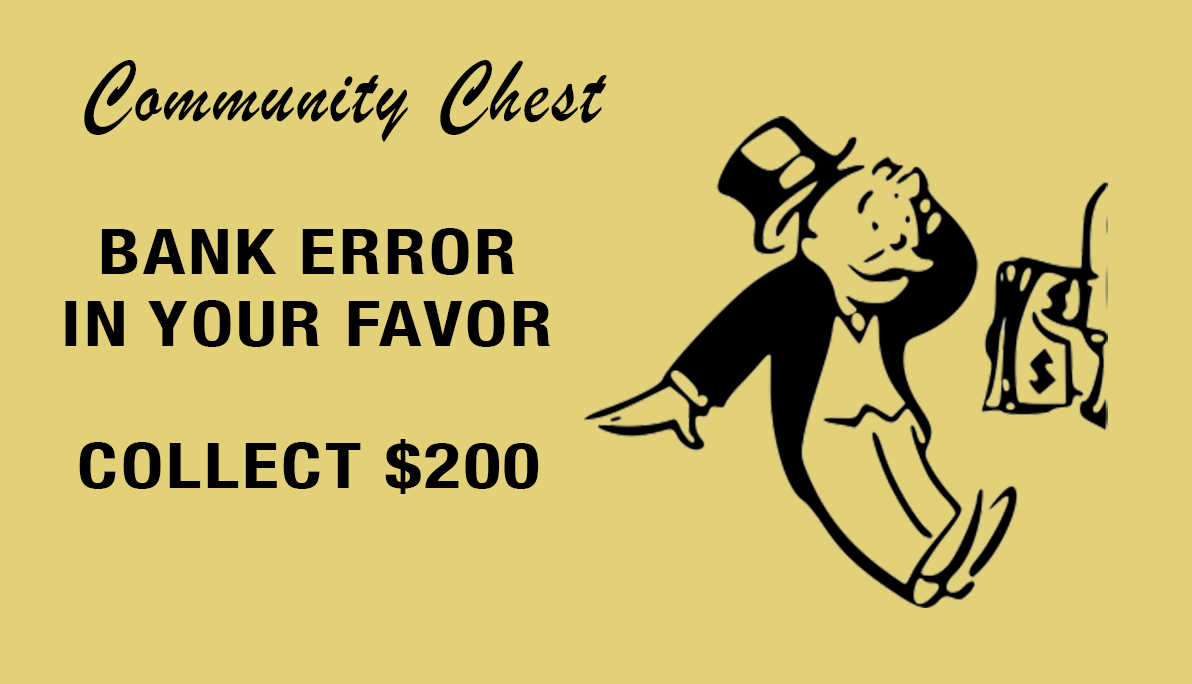
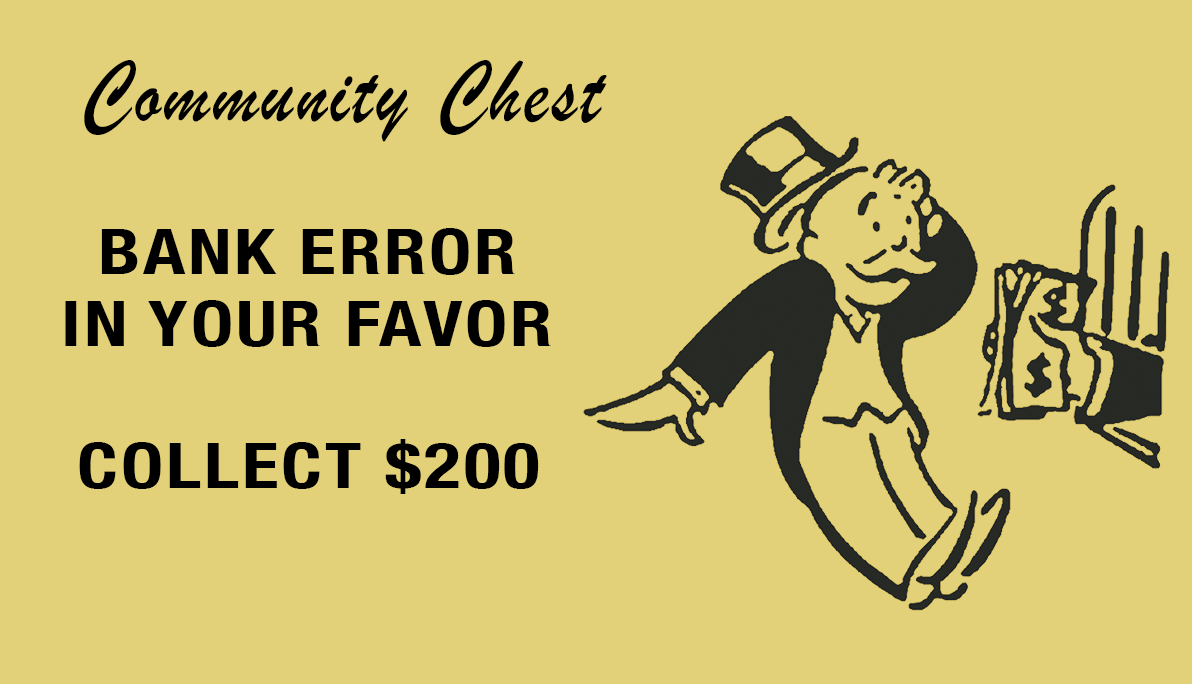
Add All Default Chance Cards
Improve quality of some existing card and tile images

Changed region(s): [[0.4656, 0.1535, 0.9933, 0.8904]]

diff --git a/lib/monopoly/game.rb b/lib/monopoly/game.rb
@@ -2885,38 +2885,96 @@ module Monopoly
             amount: -50,
             every_other_player: true,
             game: self,
-            image: Image.new('media/images/cards/chairman_of_the_board.jpg'),
+            image: Image.new('media/images/cards/chairman_of_the_board.png'),
             type: :chance
           ),
-          MoveCard.new(
+          MoneyCard.new(
+            amount: 150,
             game: self,
-            image: Image.new('media/images/cards/go_back_3_spaces.jpg'),
-            move_value: -3,
+            image: Image.new('media/images/cards/building_and_loan.png'),
             type: :chance
           ),
-          MoveCard.new(
+          GetOutOfJailFreeCard.new(
             game: self,
-            image: Image.new('media/images/cards/nearest_utility.jpg'),
-            move_value: UtilityTile,
-            rent_multiplier: 10,
+            image: Image.new('media/images/cards/get_out_of_jail_free_chance.png'),
+            type: :chance
+          ),
+          MoneyCard.new(
+            amount: 50,
+            game: self,
+            image: Image.new('media/images/cards/dividend.png'),
             type: :chance
           ),
           MoneyCard.new(
             amount: -15,
             game: self,
-            image: Image.new('media/images/cards/poor_tax.jpg'),
-            type: :chance
-          ),
-          GetOutOfJailFreeCard.new(
-            game: self,
-            image: Image.new('media/images/cards/get_out_of_jail_free.jpg'),
+            image: Image.new('media/images/cards/poor_tax.png'),
             type: :chance
           ),
           MoveCard.new(
             game: self,
             go_money: true,
-            image: Image.new('media/images/cards/advance_to_boardwalk.jpg'),
+            image: Image.new('media/images/cards/take_a_ride.png'),
+            move_value: tiles[:reading_railroad],
+            type: :chance
+          ),
+          MoveCard.new(
+            game: self,
+            go_money: true,
+            image: Image.new('media/images/cards/advance_to_go_chance.png'),
+            move_value: tiles[:go],
+            type: :chance
+          ),
+          MoveCard.new(
+            game: self,
+            image: Image.new('media/images/cards/go_back_3_spaces.png'),
+            move_value: -3,
+            type: :chance
+          ),
+          MoveCard.new(
+            game: self,
+            go_money: true,
+            image: Image.new('media/images/cards/advance_to_boardwalk.png'),
             move_value: tiles[:boardwalk],
+            type: :chance
+          ),
+          MoveCard.new(
+            game: self,
+            image: Image.new('media/images/cards/nearest_railroad.png'),
+            move_value: RailroadTile,
+            rent_multiplier: 2,
+            type: :chance
+          ),
+          MoveCard.new(
+            game: self,
+            image: Image.new('media/images/cards/nearest_utility.png'),
+            move_value: UtilityTile,
+            rent_multiplier: 10,
+            type: :chance
+          ),
+          MoveCard.new(
+            game: self,
+            image: Image.new('media/images/cards/nearest_railroad.png'),
+            move_value: RailroadTile,
+            rent_multiplier: 2,
+            type: :chance
+          ),
+          MoveCard.new(
+            game: self,
+            go_money: true,
+            image: Image.new('media/images/cards/advance_to_illinois_ave.png'),
+            move_value: tiles[:illinois_avenue],
+            type: :chance
+          ),
+          GoToJailCard.new(
+            game: self,
+            image: Image.new('media/images/cards/go_to_jail_chance.png'),
+            type: :chance
+          ),
+          PropertyRepairCard.new(
+            cost_per_house: 25,
+            game: self,
+            image: Image.new('media/images/cards/general_repairs.png'),
             type: :chance
           )
         ],
@@ -2924,7 +2982,7 @@ module Monopoly
           MoveCard.new(
             game: self,
             go_money: true,
-            image: Image.new('media/images/cards/advance_to_go.png'),
+            image: Image.new('media/images/cards/advance_to_go_community_chest.png'),
             move_value: tiles[:go],
             type: :community_chest
           ),
